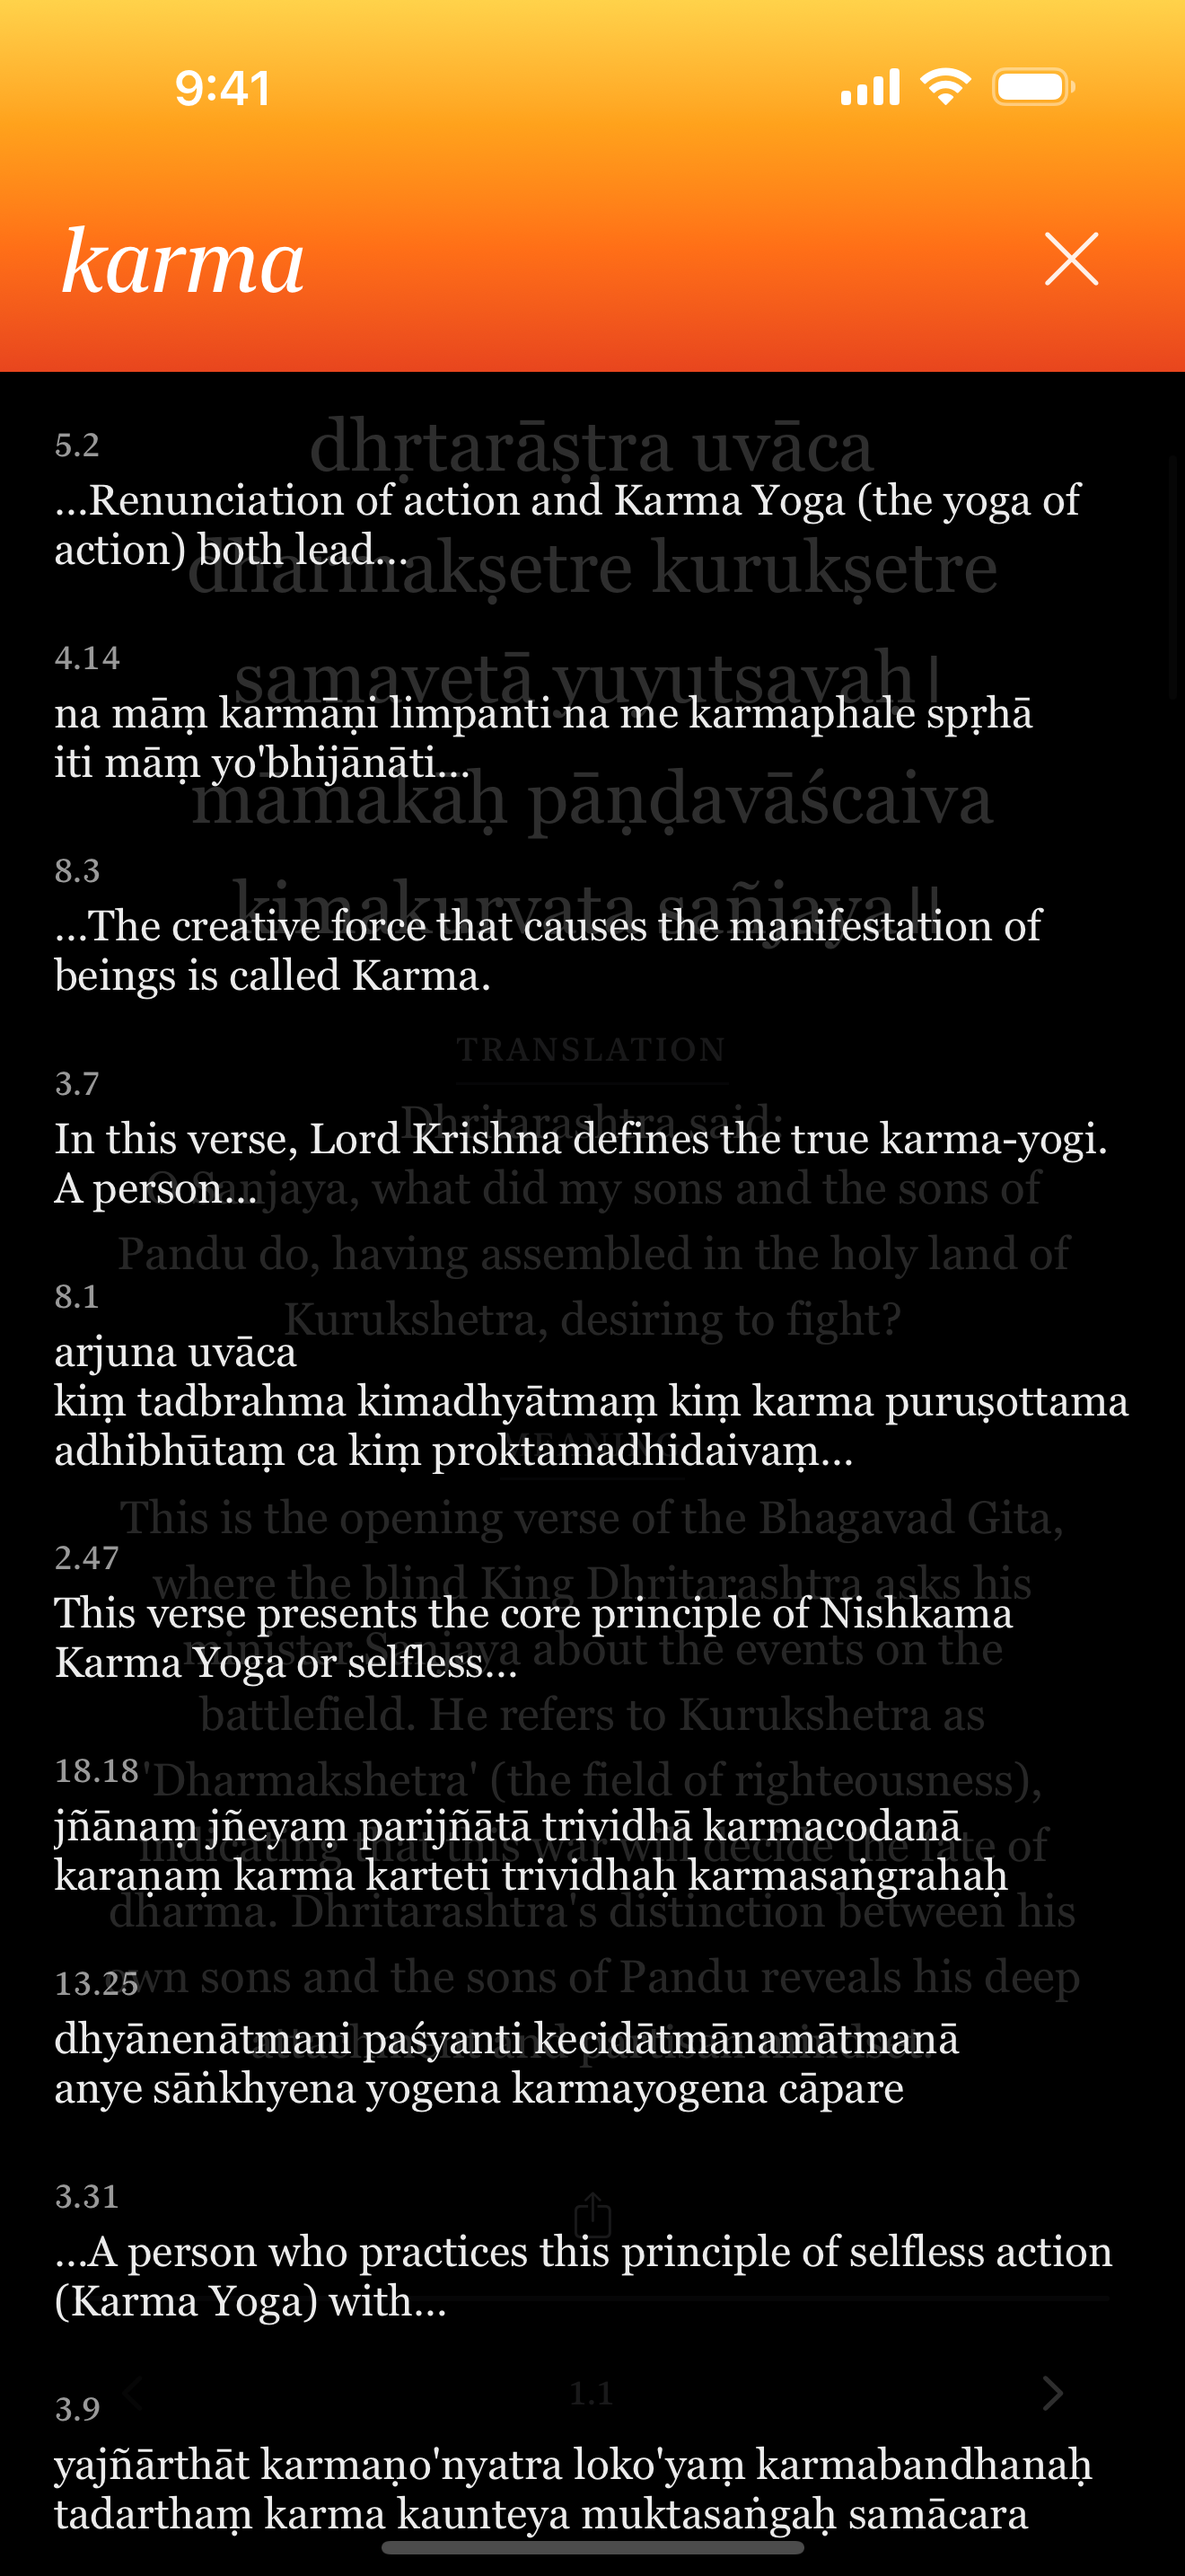
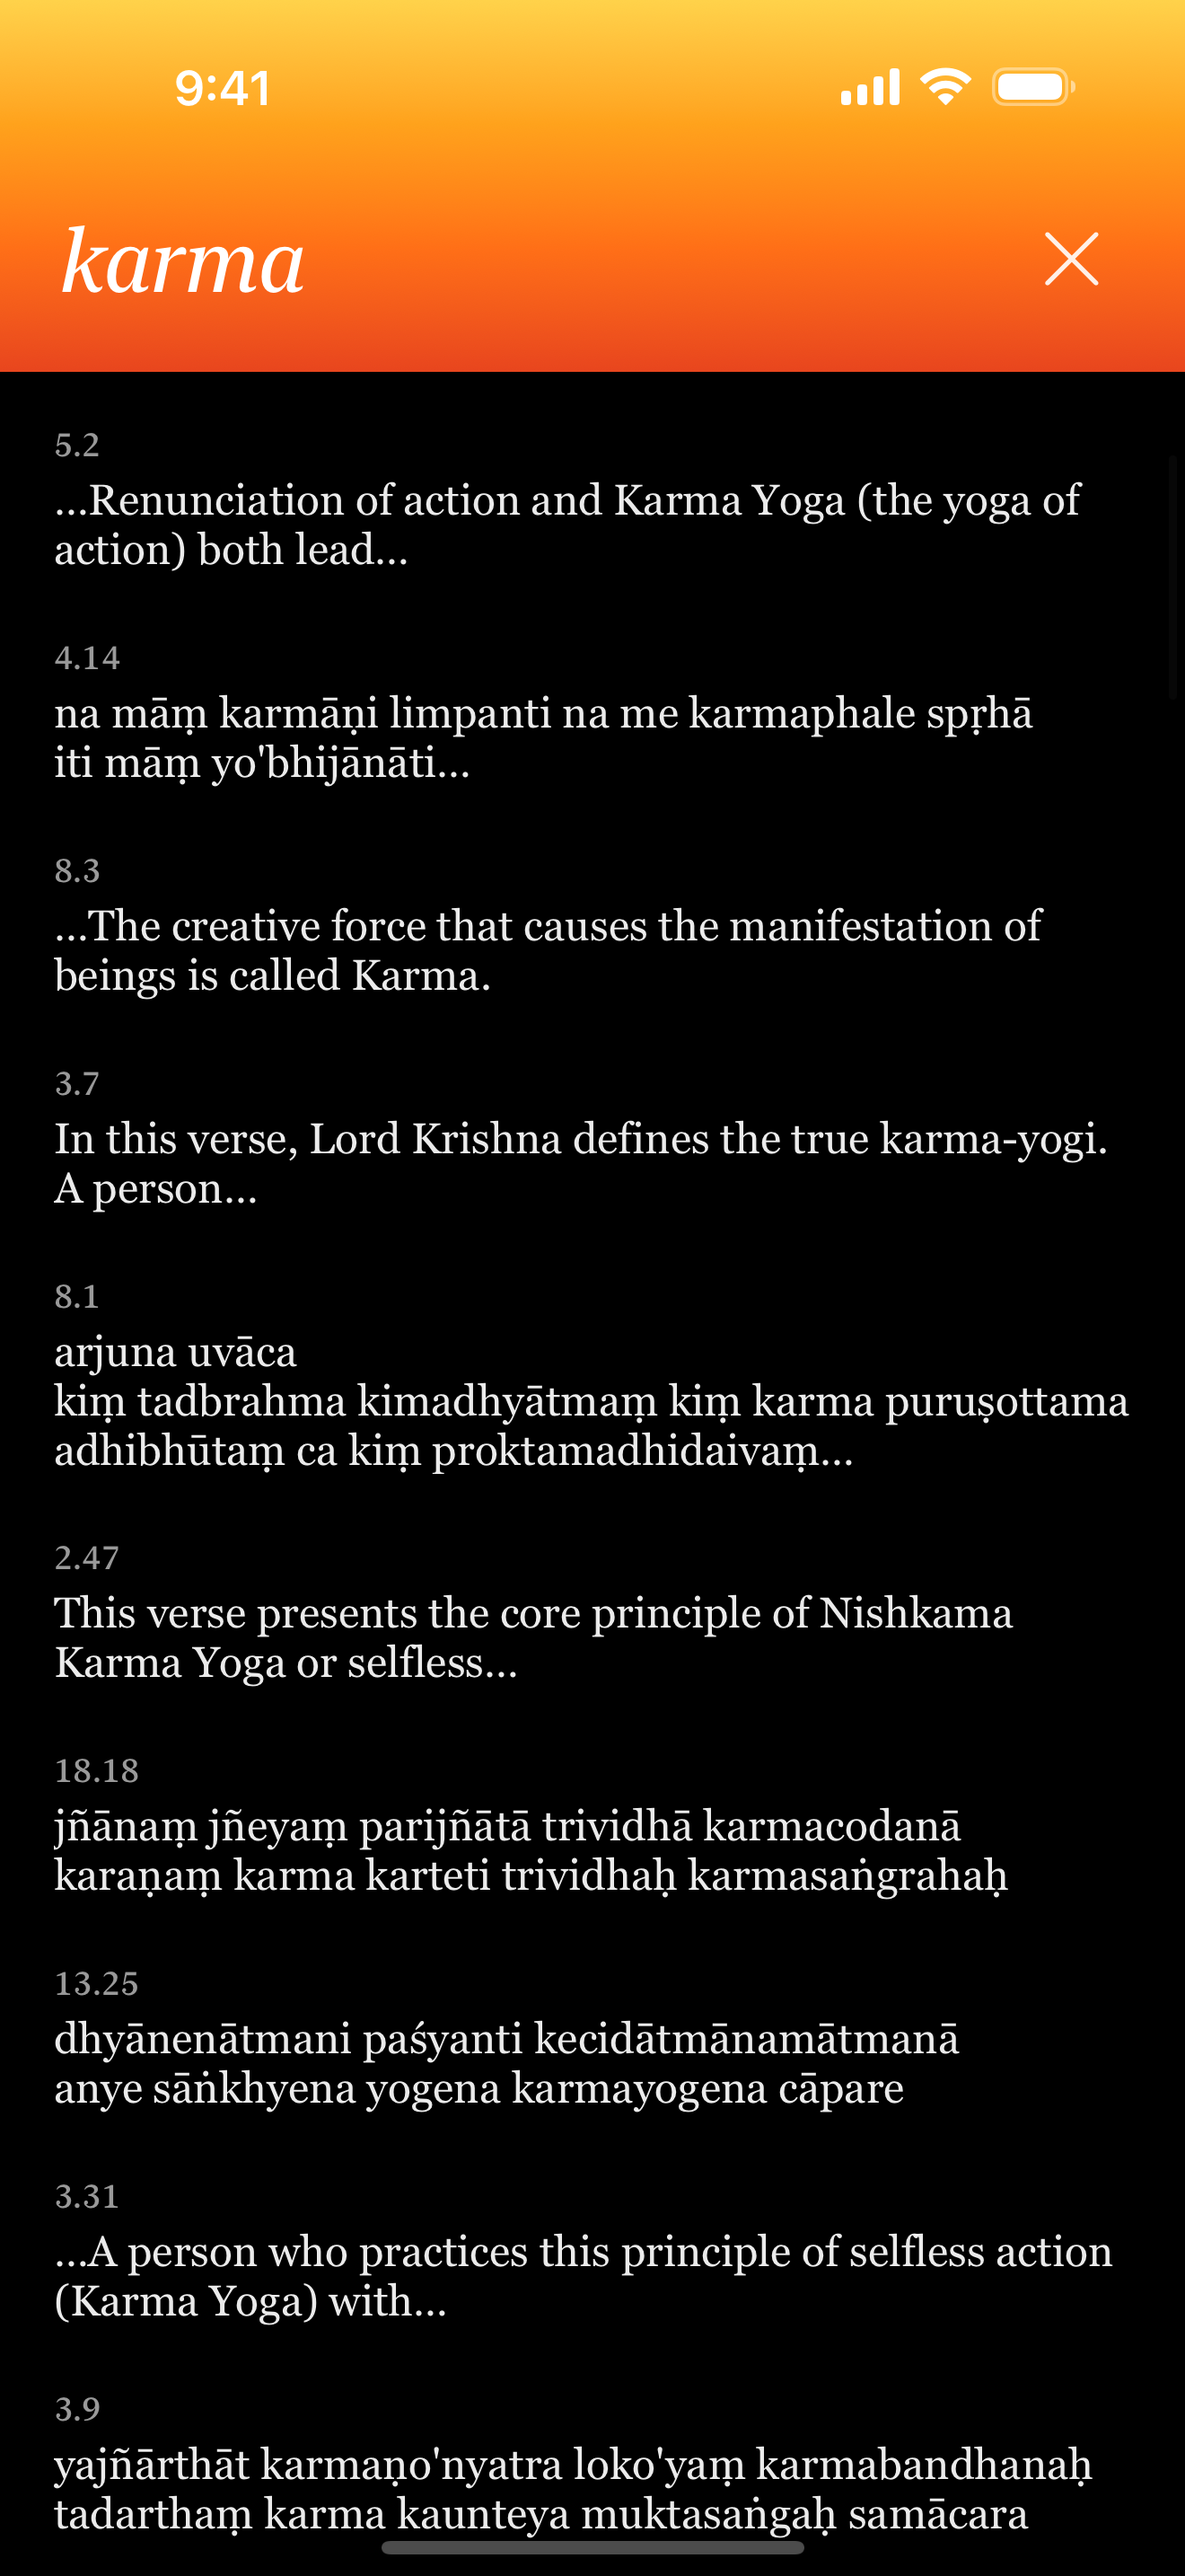
Take the ghosted verse out from behind search
Search dimmed the app to 82% rather than covering it, so the page
underneath showed through the results as large, faint Devanagari — the
reader's own verse, reading exactly like a watermark stamped across
their search.

The overlay's own words already said it: while search is up, nothing
behind it is meant to be read. So nothing behind it is shown.

diff --git a/app/Gita/Gita/Features/Search/SearchOverlay.swift b/app/Gita/Gita/Features/Search/SearchOverlay.swift
@@ -5,12 +5,12 @@
 
 import SwiftUI
 
-/// Search as a full-screen overlay: a brand band carrying the field, and the
-/// app dimmed away beneath it.
+/// Search as a full-screen overlay: a brand band carrying the field, over a
+/// ground that covers the app completely.
 ///
 /// Covers the rail as well as the page. Search is a mode, not a panel — while it
-/// is up, nothing behind it is meant to be read or tapped, so it is dimmed
-/// rather than left competing for attention.
+/// is up, nothing behind it is meant to be read or tapped, so nothing behind it
+/// is visible.
 struct SearchOverlay: View {
     @Environment(Library.self) private var library
     @Environment(SemanticIndex.self) private var semanticIndex
@@ -25,7 +25,12 @@ struct SearchOverlay: View {
 
     var body: some View {
         ZStack(alignment: .top) {
-            Color.black.opacity(0.82)
+            // Opaque, not a dim. At 82% the page underneath showed through as
+            // ghosted Devanagari behind the results — the reader's own verse,
+            // set large and faint, reading exactly like a watermark someone had
+            // stamped across the search. Nothing behind search is meant to be
+            // read, so nothing behind it is shown.
+            Color.black
                 .ignoresSafeArea()
                 .contentShape(.rect)
                 .onTapGesture { onDismiss() }
